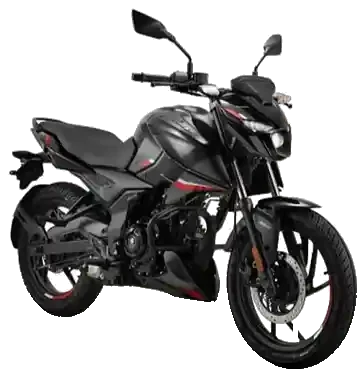
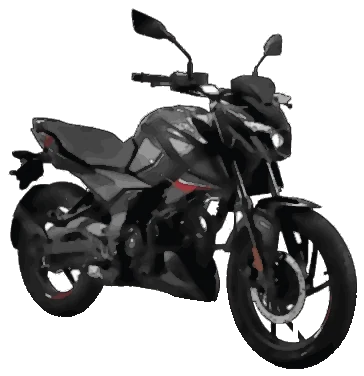
Illustrated art for every bike model; add Pulsar RS200
- Ten models traced from press photos into the flat, inked style of the NS200 art
- Backgrounds and ground shadows removed; tools/bike_illustrate.py and tools/bike_cutout.py
- New model: Pulsar RS200
- Model sheet copy updated

Claude-Session: https://claude.ai/code/session_011svZSxEu7wpuhhs3qeC1tv

diff --git a/js/store.js b/js/store.js
@@ -19,6 +19,7 @@ export const COUNTRIES = [
 
 export const MODELS = [
   { id: 'ns200', name: 'Pulsar NS200', series: 'NS Series', engine: '199.5cc triple spark, liquid-cooled · 24.5 PS / 18.7 Nm', tank: 12, reserve: 2.4, psi: [28, 28, 32, 36], tyres: ['100/80-17', '130/70-17'], oil: '10W-50 semi/fully synthetic · 1200 ml', coolant: 'Ready-mix glycol · 1000 ml', chain: '25–35 mm slack', plug: 'Champion RG4HC + RG6HCC ×2', liquid: true },
+  { id: 'rs200', name: 'Pulsar RS200', series: 'NS Series', engine: '199.5cc triple spark, liquid-cooled · 24.5 PS / 18.7 Nm', tank: 13, reserve: 2.5, psi: [28, 28, 32, 36], tyres: ['100/80-17', '130/70-17'], oil: '10W-50 semi/fully synthetic · 1200 ml', coolant: 'Ready-mix glycol · 1000 ml', chain: '25–35 mm slack', plug: 'Champion RG4HC + RG6HCC ×2', liquid: true },
   { id: 'ns400z', name: 'Pulsar NS400Z', series: 'NS Series', engine: '373.3cc DOHC, liquid-cooled · 40 PS / 35 Nm', tank: 12, reserve: 2, psi: [29, 29, 33, 37], tyres: ['110/70-17', '140/70-17'], oil: '10W-50 fully synthetic · 1700 ml', coolant: 'Glycol · 1200 ml', chain: '20–30 mm slack', plug: 'Bosch VR5NEU', liquid: true },
   { id: 'ns160', name: 'Pulsar NS160', series: 'NS Series', engine: '160.3cc twin spark, oil-cooled · 17.2 PS / 14.6 Nm', tank: 12, reserve: 2.4, psi: [28, 28, 32, 36], tyres: ['100/80-17', '130/70-17'], oil: '10W-40 / 20W-50 · 1150 ml', coolant: 'Oil cooler', chain: '25–35 mm slack', plug: 'Champion PRG6C', liquid: false },
   { id: 'ns125', name: 'Pulsar NS125', series: 'NS Series', engine: '124.45cc DTS-i · 12 PS / 11 Nm', tank: 12, reserve: 2, psi: [25, 25, 28, 32], tyres: ['80/100-17', '100/90-17'], oil: '20W-50 4T · 1000 ml', coolant: 'Air-cooled', chain: '25–35 mm slack', plug: 'Champion RG4HC', liquid: false },

diff --git a/js/views.js b/js/views.js
@@ -1241,8 +1241,8 @@ function sheetInner(c, key) {
     }
     case 'models':
       return `<div class="eyebrow">Garage</div><h2>Bike models</h2><p class="lead">Every model ${appName(s)} knows. Models without a photo show a plain tile.</p>
-      <div class="models mt16">${S.MODELS.map((m, i) => `<div class="m">${vehicleArt({ settings: { art: 'photo' } }, { model: m.id, colour: S.COLOURS[i % S.COLOURS.length][0] }, 'model')}<div class="t">${esc(S.nameOfModel(s, m))}</div><div class="d">${num(m.tank, m.tank % 1 ? 1 : 0)} L · ${esc(m.series)}${S.MODEL_IMAGES[m.id] ? ' · photo' : ''}</div></div>`).join('')}</div>
-      <p class="hint">To add photos, run tools/fetch_bike_photos.py once. Credits appear in About Waylink, Photo credits.</p>`;
+      <div class="models mt16">${S.MODELS.map((m, i) => `<div class="m">${vehicleArt({ settings: { art: 'photo' } }, { model: m.id, colour: S.COLOURS[i % S.COLOURS.length][0] }, 'model')}<div class="t">${esc(S.nameOfModel(s, m))}</div><div class="d">${num(m.tank, m.tank % 1 ? 1 : 0)} L · ${esc(m.series)}${S.MODEL_IMAGES[m.id] ? ' · art' : ''}</div></div>`).join('')}</div>
+      <p class="hint">Artwork credits are in About Waylink, Photo credits.</p>`;
     case 'credits': {
       const rows = Object.entries(S.MODEL_IMAGES);
       return `<div class="eyebrow">About</div><h2>Photo credits</h2><p class="lead">Bike photos are used under their open licences. Tap one to see its source.</p>

diff --git a/sw.js b/sw.js
@@ -1,5 +1,5 @@
 // Waylink — offline shell. Caches the app's own files; fonts are cached as they load.
-const CACHE = 'waylink-v69';
+const CACHE = 'waylink-v70';
 const SHELL = ['./', 'index.html', 'styles.css', 'js/app.js', 'js/views.js', 'js/store.js', 'js/link.js', 'js/protocol.js', 'js/sound.js', 'js/icons-huge.js', 'manifest.webmanifest', 'icon.svg', 'img/logos/wl-loop-rust.svg', 'img/logos/wl-turns-rust.svg', 'img/logos/png/wl-loop-rust-180.png', 'img/bikes/manifest.json', 'img/bikes/ns200-art.webp', ];
 // Cache each file on its own, so one missing file can't block an update.
 self.addEventListener('install', (e) => { e.waitUntil(caches.open(CACHE).then((c) => Promise.all(SHELL.map((u) => c.add(new Request(u, { cache: 'reload' })).catch(() => {})))).then(() => self.skipWaiting())); });

diff --git a/tools/bike_illustrate.py b/tools/bike_illustrate.py
@@ -1,0 +1,37 @@
+# Turn a cut-out photo into a flat, vector-style illustration (like the NS200 artwork):
+# smooth surfaces, a limited palette, clean ink outlines.
+import cv2, numpy as np, sys
+from PIL import Image
+def illus(src, out, k=22, W=900):
+    im = Image.open(src).convert('RGBA')
+    if im.width > W: im = im.resize((W, int(im.height * W / im.width)), Image.LANCZOS)
+    a = np.array(im); rgb = cv2.cvtColor(a[..., :3], cv2.COLOR_RGB2BGR); al = a[..., 3]
+    m = al > 8
+    sm = rgb.copy()
+    for _ in range(4): sm = cv2.bilateralFilter(sm, 7, 40, 7)
+    # palette in Lab space
+    lab = cv2.cvtColor(sm, cv2.COLOR_BGR2LAB).reshape(-1, 3).astype(np.float32)
+    pts = lab[m.reshape(-1)]
+    crit = (cv2.TERM_CRITERIA_EPS + cv2.TERM_CRITERIA_MAX_ITER, 30, 0.5)
+    _, lbl, ctr = cv2.kmeans(pts, k, None, crit, 3, cv2.KMEANS_PP_CENTERS)
+    q = lab.copy(); q[m.reshape(-1)] = ctr[lbl.flatten()]
+    q = cv2.cvtColor(q.reshape(sm.shape).astype(np.uint8), cv2.COLOR_LAB2BGR)
+    q = cv2.medianBlur(q, 3)
+    # gentle pop: a little more contrast and colour
+    hsv = cv2.cvtColor(q, cv2.COLOR_BGR2HSV).astype(np.float32)
+    hsv[..., 1] = np.clip(hsv[..., 1] * 1.12, 0, 255); hsv[..., 2] = np.clip((hsv[..., 2] - 128) * 1.06 + 132, 0, 255)
+    q = cv2.cvtColor(hsv.astype(np.uint8), cv2.COLOR_HSV2BGR)
+    # ink lines from colour-region edges, thin and soft
+    g = cv2.cvtColor(sm, cv2.COLOR_BGR2GRAY)
+    ed = cv2.Canny(g, 60, 140)
+    ed = cv2.GaussianBlur(ed.astype(np.float32), (3, 3), 0) / 255
+    ink = np.array([24, 22, 26], np.float32)
+    qf = q.astype(np.float32)
+    qf = qf * (1 - ed[..., None] * .55) + ink * (ed[..., None] * .55)
+    # silhouette outline
+    mm = (al > 100).astype(np.uint8)
+    rim = cv2.morphologyEx(mm, cv2.MORPH_GRADIENT, np.ones((3, 3), np.uint8)).astype(bool)
+    qf[rim] = qf[rim] * .35 + ink * .65
+    o = cv2.cvtColor(np.clip(qf, 0, 255).astype(np.uint8), cv2.COLOR_BGR2RGB)
+    Image.fromarray(np.dstack([o, al])).save(out, quality=88, method=6)
+for s_, o in zip(sys.argv[1::2], sys.argv[2::2]): illus(s_, o)

diff --git a/tests/e2e.py b/tests/e2e.py
@@ -98,8 +98,8 @@ async def main():
         await shot(pg, '04-add-vehicle')
         await pg.click('form[data-form=vehicle] button[type=submit]'); await pg.wait_for_timeout(800)
         check('new vehicle becomes active', 'Appa’s 150' in await text(pg, '.bc-main'))
-        tile = await pg.evaluate("(()=>{const e=document.querySelector('.bc-main .art.icon-mode'), cs=getComputedStyle(e); return [cs.color, cs.backgroundColor, e.style.getPropertyValue('--bc')]})()")
-        check('bike icon tile is neutral and readable', tile[0] != tile[1], str(tile))
+        src = await pg.evaluate("document.querySelector('.bc-main .art img')?.getAttribute('src') || ''")
+        check('new Pulsar 150 shows its illustration', 'pulsar150' in src, src)
         count = await pg.evaluate("JSON.parse(localStorage.getItem('pulsarnav-web-v2')).vehicles.length")
         check('garage saved with 3 bikes', count == 3, str(count))
 
@@ -131,7 +131,7 @@ async def main():
         check('serif fonts offered', await pg.query_selector('[data-act="font"][data-arg="garamond"]') and await pg.query_selector('[data-act="font"][data-arg="fraunces"]'))
         await pg.evaluate("document.querySelector('.backdrop')?.click()"); await pg.wait_for_timeout(500)
         await pg.click('[data-arg="models"]'); await pg.wait_for_timeout(500)
-        check('model gallery lists all 10 models', len(await pg.query_selector_all('.models .m')) == 10)
+        check('model gallery lists all 11 models', len(await pg.query_selector_all('.models .m')) == 11)
         await shot(pg, '06b-models')
         await pg.keyboard.press('Escape'); await pg.wait_for_timeout(400)
         # Preview states: nothing is saved, every tab renders
